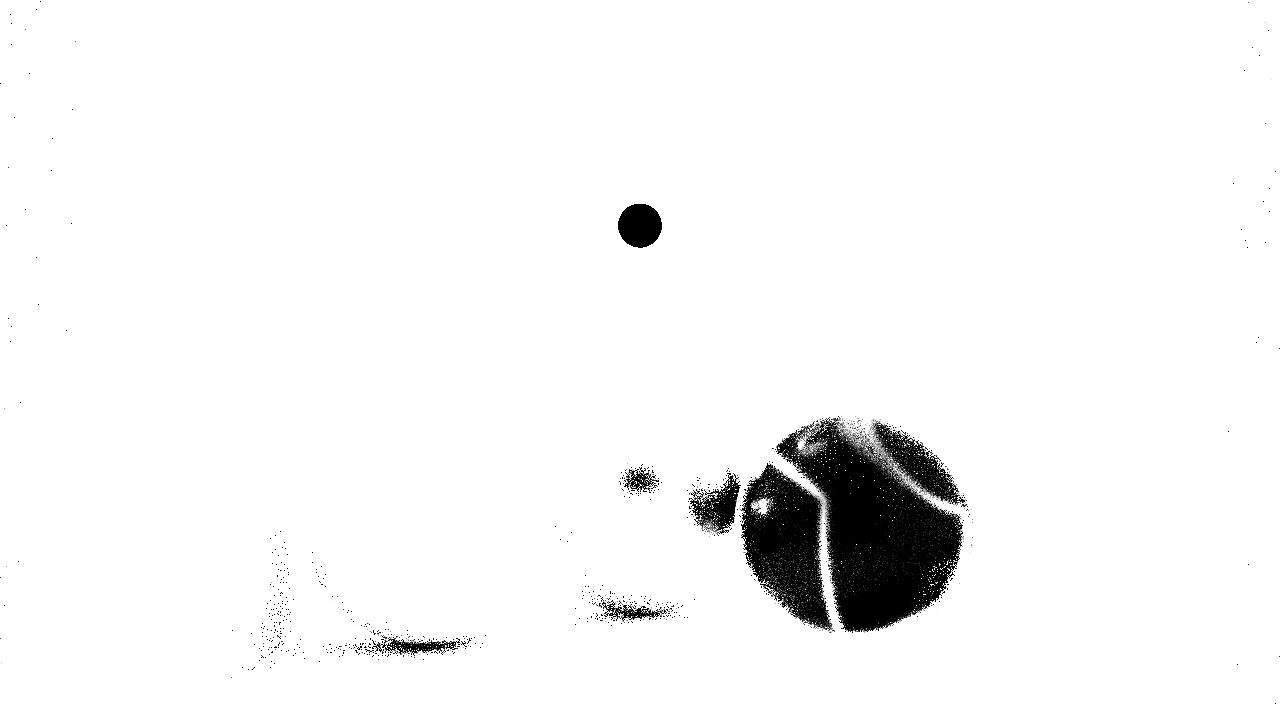
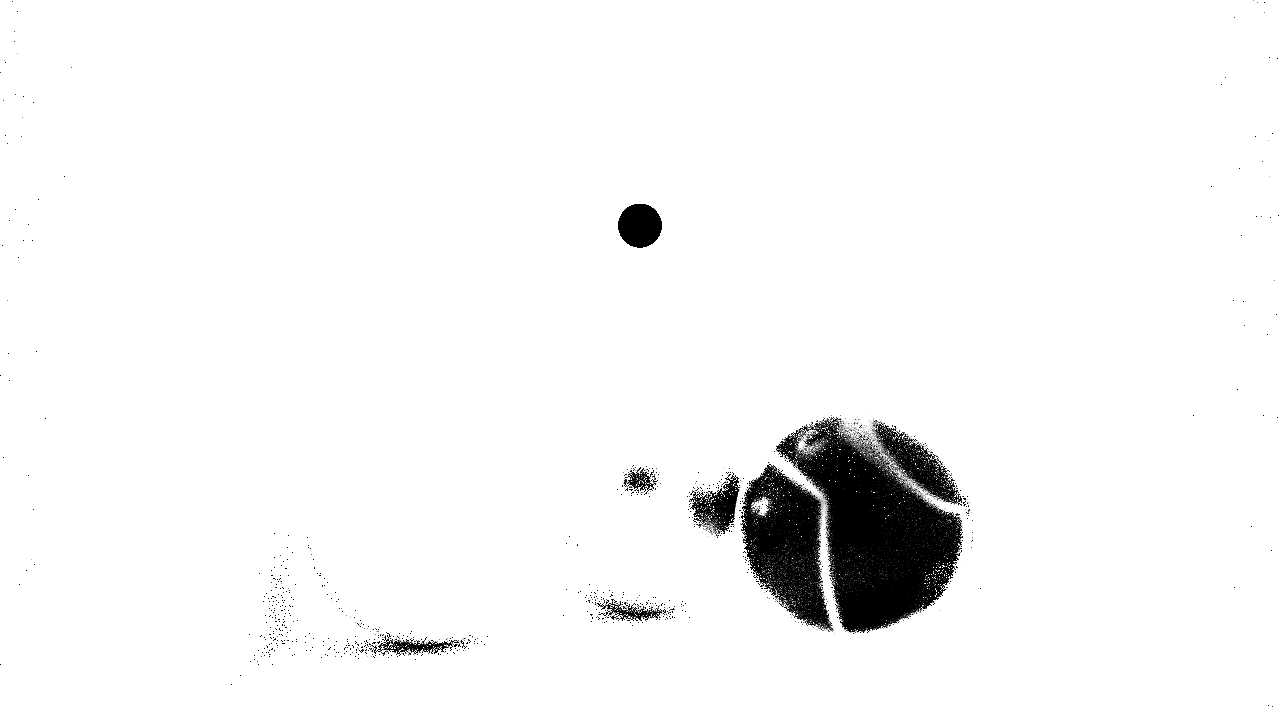
Filled in a photon map with 0 bounces

Changed region(s): [[0.4688, 0.5806, 0.75, 0.8861], [0.25, 0.8556, 0.375, 0.9167], [0.4688, 0.825, 0.5312, 0.8861]]

diff --git a/src/lights.h b/src/lights.h
@@ -109,7 +109,41 @@ public:
 	Color Intensity     () const override { return intensity; }
 	bool  IsRenderable  () const override { return size > 0.0f; }
 	bool  IsPhotonSource() const override { return true; }
-	void  RandomPhoton( RNG &rng, Ray &r, Color &c ) const override{};
+
+	void  RandomPhoton( RNG &rng, Ray &r, Color &c ) const override
+    {
+        c = intensity * 4.0f * M_PI * size * size;
+
+        // Ray pos
+        float randU{ rng.RandomFloat() };
+        float randV{ rng.RandomFloat() };
+        const float theta{ 2.0f * M_PI * randU };
+        const float posZ{ size * (1.0f - 2.0f * randV) };
+        const float rProj{ sqrtf(size * size - posZ * posZ) };
+        const float posX{ rProj * cos(theta) };
+        const float posY{ rProj * sin(theta) };
+        const Vec3f rayPos{ Vec3f{ posX, posY, posZ } + position };
+        r.p = rayPos;
+
+        // Ray dir
+        randU = rng.RandomFloat();
+        randV = rng.RandomFloat();
+        const float phi{ 2.0f * M_PI * randU };
+        const float cosTheta{ randV };
+        const float sinTheta{ sqrtf(1.0f - cosTheta * cosTheta) };
+
+        const float dirX{ sinTheta * cos(phi) };
+        const float dirY{ sinTheta * sin(phi) };
+        const float dirZ{ cosTheta };
+
+        const Vec3f norm{ (rayPos - position).GetNormalized() };
+        Vec3f u, v;
+        norm.GetOrthonormals(u, v);
+        const Vec3f dir{ (dirX * u) + (dirY * v) + (dirZ * norm) };
+
+        r.dir = dir;
+    }
+
 	void  SetViewportLight( int lightID ) const override;
 	void  Load( Loader const &loader ) override;
 

diff --git a/src/main.cpp b/src/main.cpp
@@ -4,6 +4,7 @@
 #include "cyCore/cyVector.h"
 #include "cyCore/cyMatrix.h"
 #include "rng.h"
+#include "photonmap.h"
 
 #include <iostream>
 #include <thread>
@@ -261,6 +262,9 @@ void threadRenderTiles()
 int main()
 {
     renderer.LoadScene("../assets/scene.xml");
+    PhotonMap photonMap{};
+    photonMap.Resize(10000000);
+    renderer.SetPhotonMap(&photonMap);
 
     tileThreads::numTilesX = (renderer.GetCamera().imgWidth + tileThreads::tileSize - 1) / tileThreads::tileSize;
     tileThreads::numTilesY = (renderer.GetCamera().imgHeight + tileThreads::tileSize - 1) / tileThreads::tileSize;
@@ -281,6 +285,24 @@ int main()
 
     const auto start{ std::chrono::high_resolution_clock::now() };
 
+    // Fill in photon map
+    const Light* light{ renderer.GetScene().lights[0] };
+    while (true)
+    {
+        Ray photonRay;
+        Color c;
+        light->RandomPhoton(tileThreads::rng, photonRay, c);
+
+        HitInfo hInfo{};
+        if (!renderer.TraceRay(photonRay, hInfo))
+            continue;
+
+        if (!photonMap.AddPhoton(hInfo.p, photonRay.dir, c))
+            break;
+    }
+    //PhotonMap.PrepareForIrradianceEstimation();
+
+    // Render image
     const size_t numThreads{ std::thread::hardware_concurrency() };
     std::vector<std::thread> threads;
     for (size_t i{ 0 }; i < numThreads; ++i)

diff --git a/src/renderer.h b/src/renderer.h
@@ -199,6 +199,7 @@ protected:
 	Scene       scene;
 	Camera      camera;
 	RenderImage renderImage;
+    PhotonMap* photonMap;
 	std::string sceneFile;
 	bool isRendering = false;
 
@@ -220,7 +221,8 @@ public:
 	virtual bool TraceRay      ( Ray const &ray, HitInfo &hInfo, int hitSide=HIT_FRONT_AND_BACK ) const;
 	virtual bool TraceShadowRay( Ray const &ray, float t_max,    int hitSide=HIT_FRONT_AND_BACK ) const;
 
-	virtual PhotonMap const * GetPhotonMap  () const { return nullptr; }
+	virtual PhotonMap const * GetPhotonMap  () const { return photonMap; }
+    virtual void SetPhotonMap(PhotonMap* p) { photonMap = p; }
 	virtual PhotonMap const * GetCausticsMap() const { return nullptr; }
 };
 

diff --git a/src/materials.cpp b/src/materials.cpp
@@ -45,7 +45,7 @@ Color MtlBlinn::Shade(ShadeInfo const &shadeInfo) const
         return finalColor;
 
     // Monte Carlo global illumination
-    if (shadeInfo.CurrentBounce() < 2)
+    if (diffuseColor.Sum() > 0.0f && shadeInfo.CurrentBounce() < 2)
     {
         const float phiOffset{ shadeInfo.RandomFloat() };
         const float thetaOffset{ shadeInfo.RandomFloat() };
